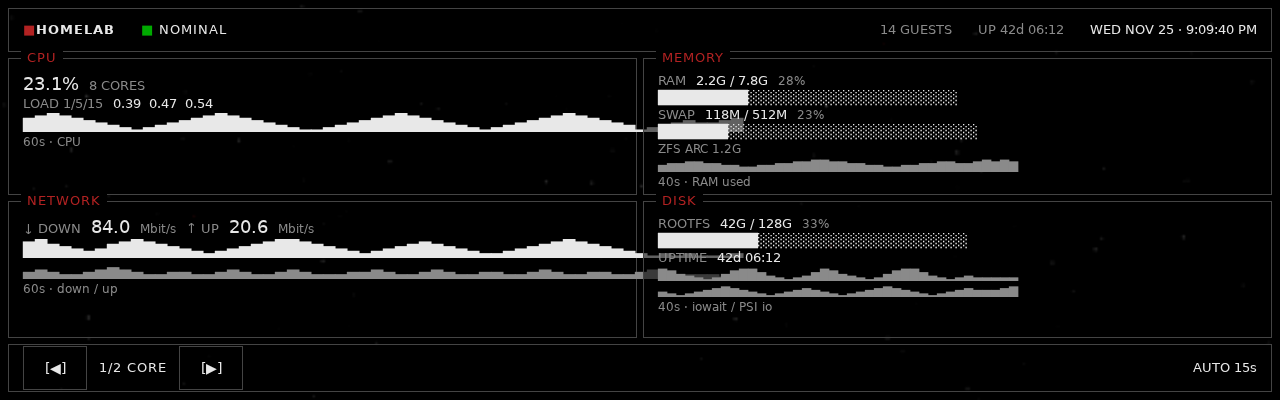
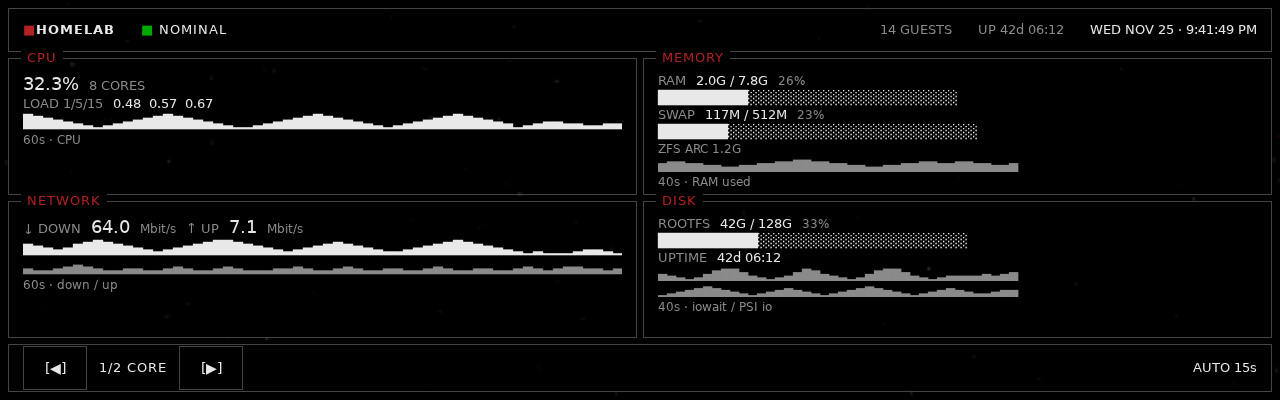
Fit sparklines inside panels and regenerate screenshots

diff --git a/src/kiosk.html b/src/kiosk.html
@@ -1,5 +1,5 @@
 <!doctype html>
-<!-- Prototype: static mock of page 1 CORE at exactly 1280x400. Fake data only; no API, no persistence. -->
+<!-- Homelab-screen kiosk: fixed 1280x400 CORE + SCREENSAVER pages, fed by the local snapshot collector. -->
 <html lang="en">
 <head>
 <meta charset="utf-8">
@@ -98,9 +98,10 @@
   .unit { color: var(--dim); font-size: 12px; }
   .dim { color: var(--dim); font-size: 12px; white-space: nowrap; }
   .bar { color: var(--fg); white-space: pre; }
-  .spark { white-space: pre; max-width: 100%; color: var(--fg); font-size: 13px; line-height: 16px; }
+  .spark { display: block; white-space: pre; max-width: 100%; overflow: hidden; color: var(--fg); font-size: 13px; line-height: 16px; }
   .spark.up { color: var(--dim); }
-  .spark.tall { font-size: 16px; line-height: 20px; }
+  /* 60 glyphs at 13px mono fit the 599px panel content box; 16px did not. */
+  .spark.tall { font-size: 13px; line-height: 18px; }
   .spark.small { font-size: 12px; line-height: 15px; color: var(--dim); }
   .spark.tiny { font-size: 12px; line-height: 15px; color: var(--dim); }
   .stack { display: flex; flex-direction: column; gap: 1px; }
